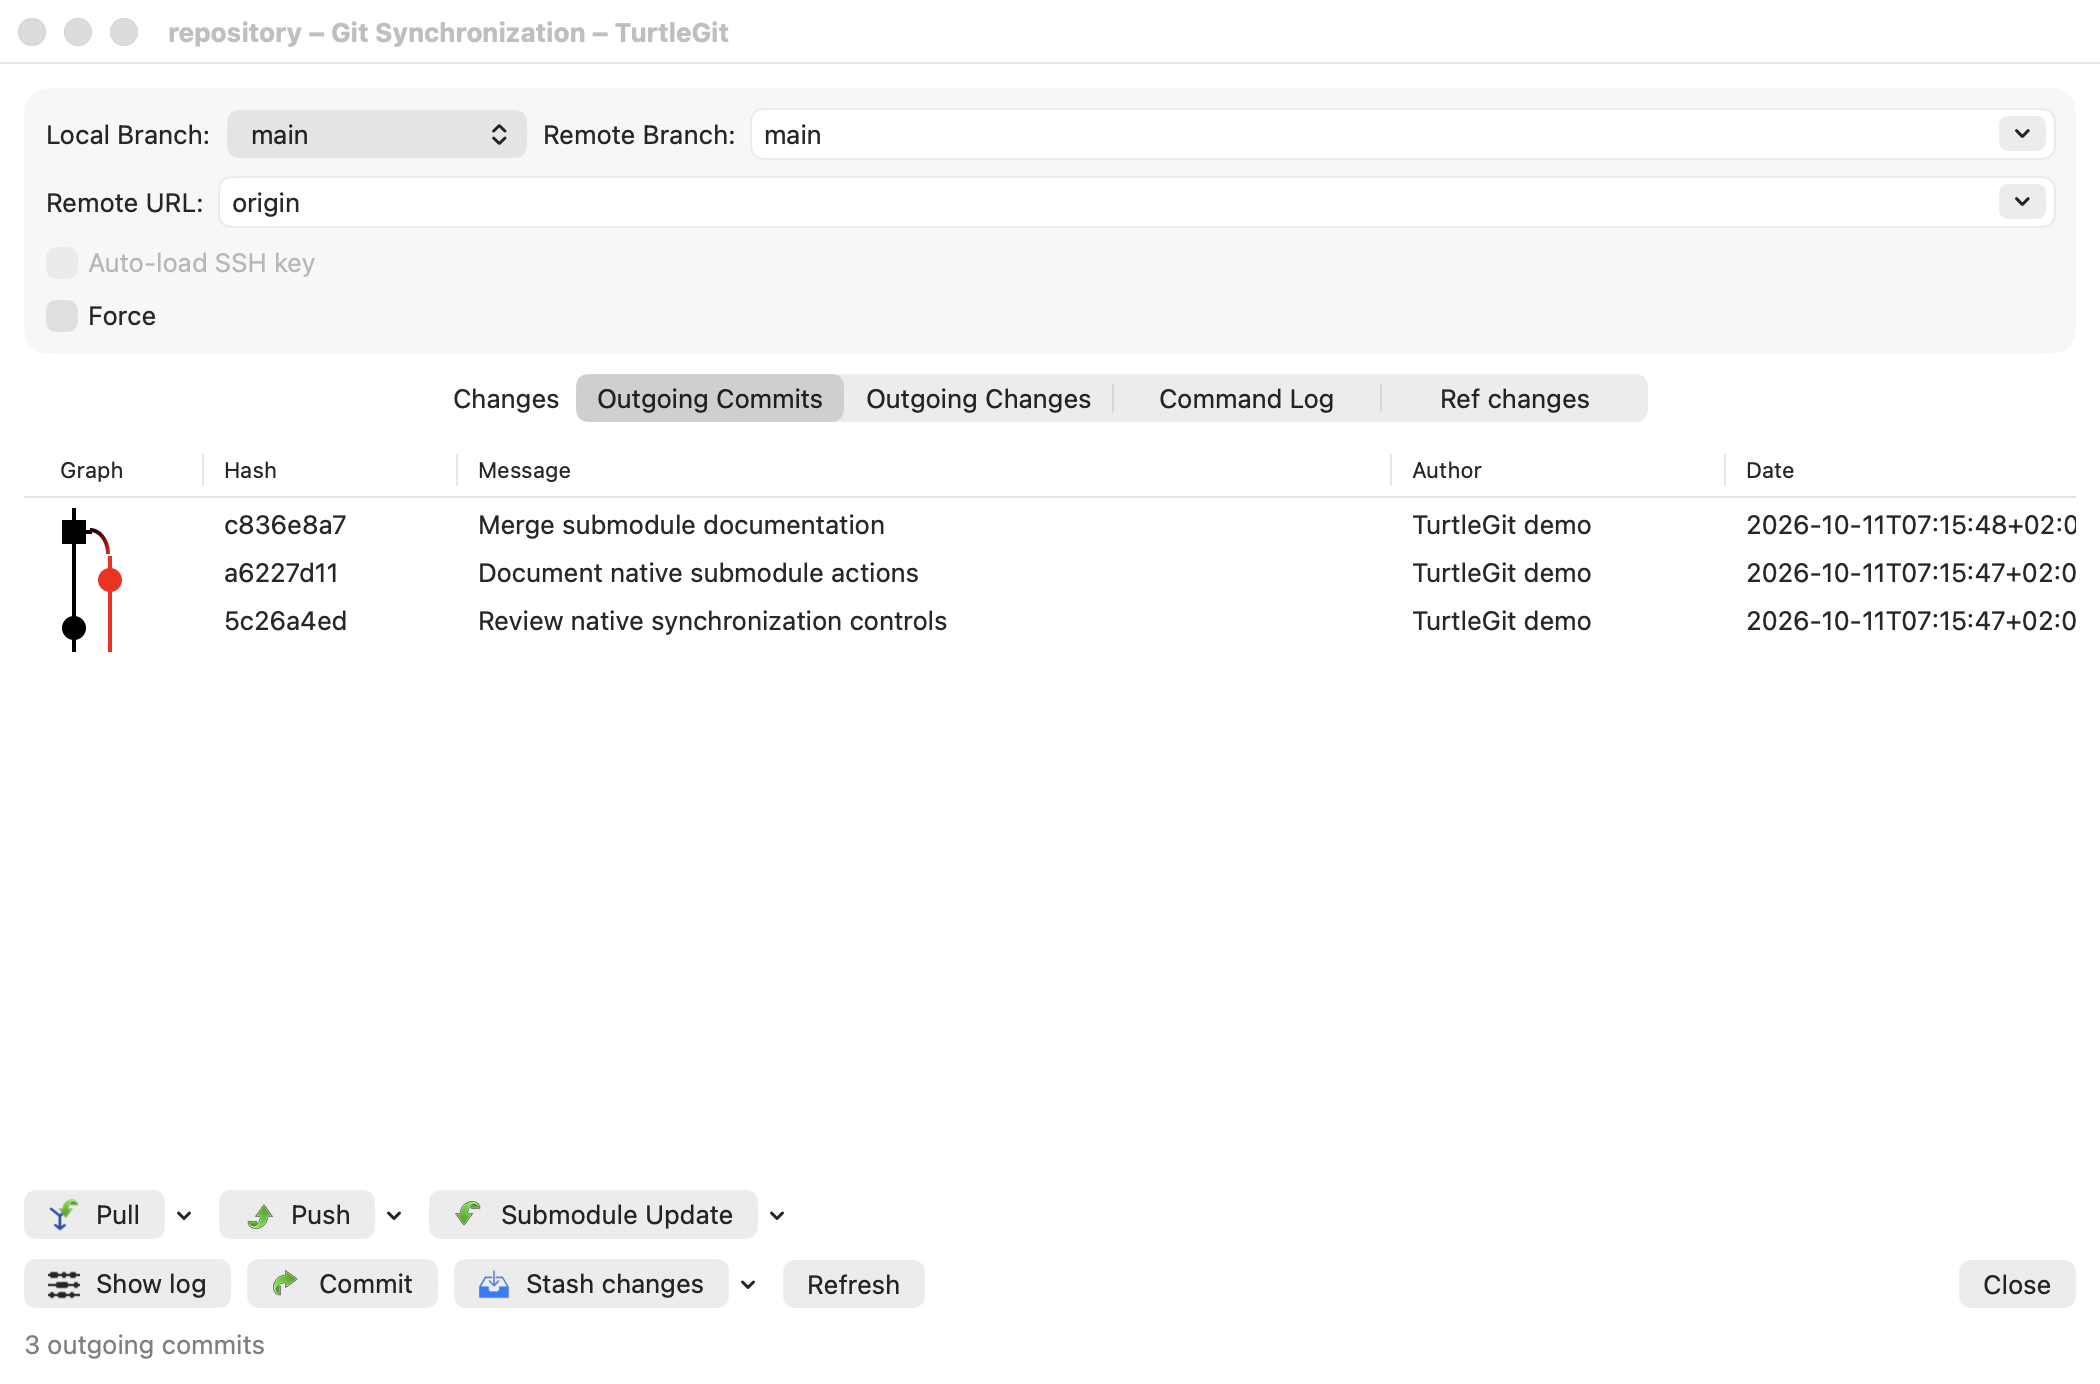
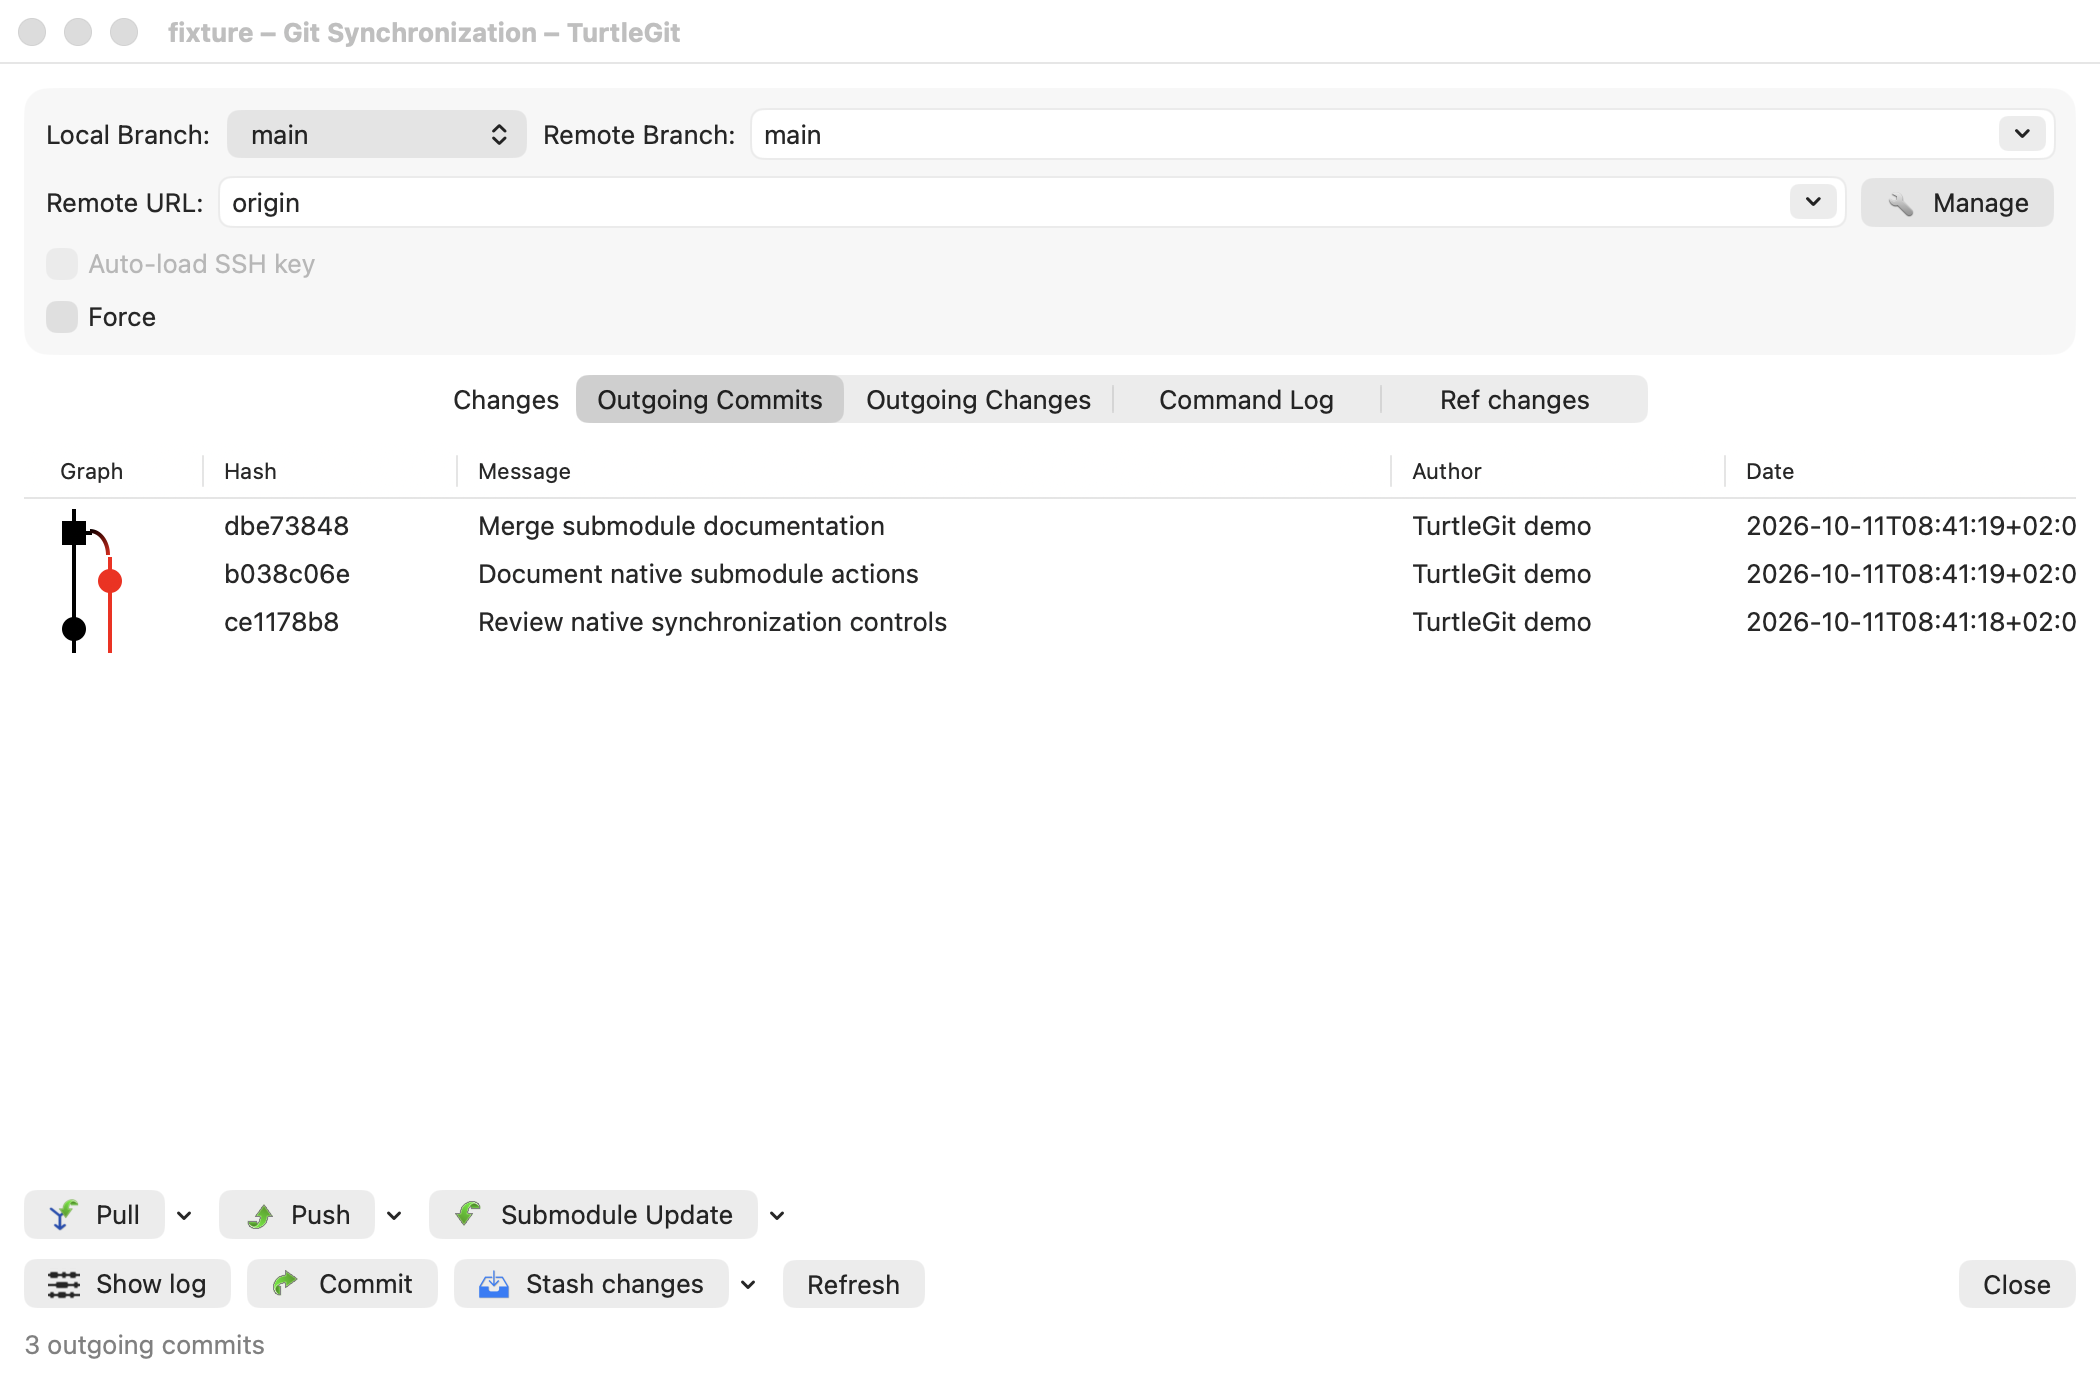
Document Sync Manage verification and update native screenshots

diff --git a/docs/site/index.html b/docs/site/index.html
@@ -29,8 +29,8 @@
     <figure><a href="assets/merge-abort-reset-failed-light.png"><img src="assets/merge-abort-reset-failed-light.png" alt="Native light Reset progress showing a real Git index-lock diagnostic, red Git exit-code status, original green Retry icon and Close." width="1520" height="840" loading="lazy"></a><figcaption>A real Git lock failure deliberately produced in the disposable sample repository. Native keyboard routing, ownership, cancellation and retries pass with system and packaged Git. <a href="@@REPOSITORY_URL@@/blob/main/docs/MERGE-PARITY.md">Verification and remaining work →</a></figcaption></figure>
     <figure><a href="assets/merge-abort-reset-failed-dark.png"><img src="assets/merge-abort-reset-failed-dark.png" alt="The same actual Git reset failure in dark appearance with readable diagnostics and colored status and icon." width="1520" height="840" loading="lazy"></a><figcaption>Dark Reset progress with styled diagnostics. Animation, other progress options, factory entry and signed acceptance remain under review.</figcaption></figure>
     <h2>Git Synchronization</h2>
-    <p>Synchronization now has native outgoing and incoming history with the graph before the list, changed-file comparisons, reference changes and bounded command output. Pull owns separate branch-switch progress; Fetch &amp; Rebase offers the original Yes/No and Merge/Rebase/Abort choices. Hold Shift when choosing Pull or Fetch to open their full native options. Ordinary Pull/Fetch refreshes results on return. Full-options Rebase now uses an owned handoff before refreshing; its broader completion actions remain under review. Compare Tags now has a dedicated six-column tab with sorting, original-icon menus, confirmed tag deletion and owned loading/command progress. Push, Push tags and Push notes now have native split actions; Shift+Push opens owned full options and progress. Submodule Update, Init and Sync have source command variants; Shift opens their standalone dialogs. Stash changes, Pop and Apply now have a split button; failed restores show actual conflicts. Shift+Stash changes opens full Save options. Project hooks, remaining controls, visual matching and signed acceptance are still in progress. <a href="@@REPOSITORY_URL@@/blob/main/docs/SYNCHRONIZATION-PARITY.md">Source comparison and verification →</a></p>
-    <figure><a href="assets/git-synchronization-light.png"><img src="assets/git-synchronization-light.png" alt="Native light Git Synchronization window with branch and remote fields, graph before outgoing commits, original command icons and Pull/Push/Submodule split buttons." width="2100" height="1384" loading="lazy"></a><figcaption>Actual native window, 11 October 2026, from a disposable sample repository. Pull, Push, Submodule and Stash split actions in two rows, with a compact colored merge graph. Other source controls, columns and full visual parity remain in progress.</figcaption></figure>
+    <p>Synchronization now has native outgoing and incoming history with the graph before the list, changed-file comparisons, reference changes and bounded command output. Pull owns separate branch-switch progress; Fetch &amp; Rebase offers the original Yes/No and Merge/Rebase/Abort choices. Hold Shift when choosing Pull or Fetch to open their full native options. Ordinary Pull/Fetch refreshes results on return. Full-options Rebase now uses an owned handoff before refreshing; its broader completion actions remain under review. Compare Tags now has a dedicated six-column tab with sorting, original-icon menus, confirmed tag deletion and owned loading/command progress. Push, Push tags and Push notes now have native split actions; Shift+Push opens owned full options and progress. Submodule Update, Init and Sync have source command variants; Shift opens their standalone dialogs. Stash changes, Pop and Apply now have a split button; failed restores show actual conflicts. Shift+Stash changes opens full Save options. Manage beside Remote URL opens native Remote settings; closing settings refreshes remote choices and outgoing results. Project hooks, remaining controls, visual matching and signed acceptance are still in progress. <a href="@@REPOSITORY_URL@@/blob/main/docs/SYNCHRONIZATION-PARITY.md">Source comparison and verification →</a></p>
+    <figure><a href="assets/git-synchronization-light.png"><img src="assets/git-synchronization-light.png" alt="Native light Git Synchronization window with branch and remote fields, graph before outgoing commits, original command icons, Manage beside Remote URL and Pull/Push/Submodule split buttons." width="2100" height="1384" loading="lazy"></a><figcaption>Actual native window, 11 October 2026, from a disposable sample repository. Manage beside Remote URL and Pull, Push, Submodule and Stash split actions in two rows, with a compact colored merge graph. Other source controls, columns and full visual parity remain in progress.</figcaption></figure>
     <figure><a href="assets/git-synchronization-dark.png"><img src="assets/git-synchronization-dark.png" alt="The same native Synchronization window in dark mode, preserving colored Pull, Push and Commit icons." width="2100" height="1384" loading="lazy"></a><figcaption>Dark appearance. Both themes were also inspected at the minimum window size; the metadata table still scrolls horizontally for its later columns.</figcaption></figure>
     <h2>Choose the Log walk order</h2>
     <p>Click a revision-table column header to open Log commit ordering. Choose Git’s chronological default, topology, committer-date or author-date order; OK saves the choice and refreshes Log while retaining commit selection. Cancel preserves the previous setting. <a href="@@REPOSITORY_URL@@/blob/main/docs/LOG-ORDERING-PARITY.md">Ordering implementation and source audit →</a></p>

diff --git a/README.md b/README.md
@@ -19,8 +19,8 @@ macOS 13.
 | Commit | Checked-file commits, optional staging, right-hand partial-staging window, amend, author/date controls, Commit / ReCommit / Commit & Push | Complete upstream controls, hook/editor/signing interactions and physical UI acceptance across all routes |
 | History | Log with revision graph before the list, revision/file menus, Blame, Reflog, Browse References, references containing a commit, four Log ordering modes, notes and statistics | Complete upstream views, menus and behavior; see individual parity documents |
 | Repository workflows | Clone/Create Repository, status, branch/tag, Switch, Fetch/Pull/Push, merge, Rebase, Stash, reset, patches, export, Submodule Add/Update/Sync and worktrees | Each workflow has remaining source/UI/sandbox checks; a working Git operation alone does not establish parity |
-| Synchronization | Outgoing/incoming graph and files, reference changes, Pull/Fetch/Push variants, separate checkout/merge progress, Fetch & Rebase choices, owned Shift full options, a six-column Compare Tags tab with tag actions and Submodule Update/Init/Sync and Stash Save/Pop/Apply split commands | Project hooks, remaining controls, complete visual and signed acceptance; [source audit](docs/SYNCHRONIZATION-PARITY.md) |
-| Remote settings | Native remote list, URL/Push URL, Rename/Add New-Save/Remove, tag policy, Push Default and three-state Prune; source prompts and Browse References entry | Native key selection and Clone/Fetch/Pull/Push auto-load exist; remaining SSH consumers, bundled OpenSSH, complete settings tree and physical/signed acceptance; legacy PuTTY keys are preserved for Windows interoperability |
+| Synchronization | Outgoing/incoming graph and files, reference changes, Pull/Fetch/Push variants, separate checkout/merge progress, Fetch & Rebase choices, owned Shift full options, a six-column Compare Tags tab with tag actions and Submodule Update/Init/Sync and Stash Save/Pop/Apply split commands; Manage opens Remote settings and refreshes results on dismissal | Project hooks, remaining controls, complete visual and signed acceptance; [source audit](docs/SYNCHRONIZATION-PARITY.md) |
+| Remote settings | Native remote list, URL/Push URL, Rename/Add New-Save/Remove, tag policy, Push Default and three-state Prune; source prompts and Browse References/Sync Manage entries | Native key selection and Clone/Fetch/Pull/Push auto-load exist; remaining SSH consumers, real authentication, complete settings tree and physical/signed acceptance; legacy PuTTY keys are preserved for Windows interoperability |
 | Comparison | Standalone Load Images, colored unified diff, two-file text comparison, native image panes with zoom/linked pan/alpha and XOR overlay, frame/page controls and playback, configurable transparency backgrounds and local Dark Mode, three-pane image conflict selection, and three-pane text conflict editor | Full upstream formats, format-specific animation and broader conflict controls, encodings, commands and layout parity |
 | Appearance and icons | Light/dark palettes, original upstream artwork in native menus and status lists | All-dialog visual comparison and signed Finder rendering |
 | Finder | Embedded Finder Sync extension, status snapshot/badges and selection-based context-menu routing | Signed end-to-end activation, independent background cache and invalidation |

diff --git a/docs/SYNCHRONIZATION-PARITY.md b/docs/SYNCHRONIZATION-PARITY.md
@@ -749,3 +749,26 @@ checkpoint. Broader UI/physical/signed acceptance remains separate.
 Focused checks passed on system Git 2.50.1, Git 2.39.5 and packaged Git
 2.55.0; native Stash checks passed on system and packaged Git. Both unsigned
 builds and bundle audits passed. See [verification scope and limits](qa/stash-reference-cancellation-2026-10-11.json).
+
+## Manage Remote settings (October 11, 2026)
+
+The source `OnBnClickedButtonManage` opens Settings on its Remote page modally,
+then calls `Refresh` after dismissal. The native Manage button now sits beside
+Remote URL and opens the existing native Remote settings page as an owned sheet,
+using the captured repository, access lease and private/default preferences.
+It reuses configured Fetch interactions for the settings page's Fetch offer.
+The settings page blocks Sync transport/reload and normal parent closure.
+Dismissal reloads the remote/branch catalog and outgoing projection while
+retaining typed local/remote branch, URL and Force values. Forced parent closure
+invalidates both models, cancels settings reads and closes the owned sheet.
+
+The native page is currently a standalone Remote settings sheet rather than
+the upstream full Settings tree. Exact selection-index fallback after deleting
+a selected named remote, the complete Settings tree, physical button/keyboard
+acceptance and signed sandbox acceptance remain pending.
+
+Focused all-source Manage checks and the eleven-group native regression passed
+with system and packaged Git. Debug and universal unsigned AppStore builds,
+bundle audits, inventory and site checks passed. Updated native light/dark
+screenshots are published; both sizes were inspected against the source. See
+[verification methods and limits](qa/synchronization-manage-native-2026-10-11.json).

diff --git a/docs/GETTING-STARTED.md b/docs/GETTING-STARTED.md
@@ -101,9 +101,16 @@ reverse the configured built-in/external unified viewer choice.
 
 Right-click a branch or tag folder in Browse References to create a branch or tag
 from HEAD. **Delete all tags** applies to the tag rows currently displayed in that
-folder and filter. Tags outside the displayed list remain intact. Remote management settings are still being ported.
+folder and filter. Tags outside the displayed list remain intact.
 
 Use **Delete remote tags on "remote"…** in a tag folder to open the remote tag list.
 Select tags, click Delete and confirm; Abort is the default. The dialog refreshes
 and stays open after deletion. Local tags remain intact. Remote folders also offer
 Fetch and Delete remote tags for their configured remote.
+
+In **Git Synchronization**, click **Manage** beside Remote URL to edit remotes.
+Use **Add New/Save** to add a name and URL, or select an existing remote and
+apply its URL, Push URL, tag, prune or Push Default changes. Closing Remote
+settings refreshes Synchronization's remote list and outgoing results.
+Unapplied edits are discarded when you cancel. The complete Settings tree
+and full upstream dialog parity are still being ported.
